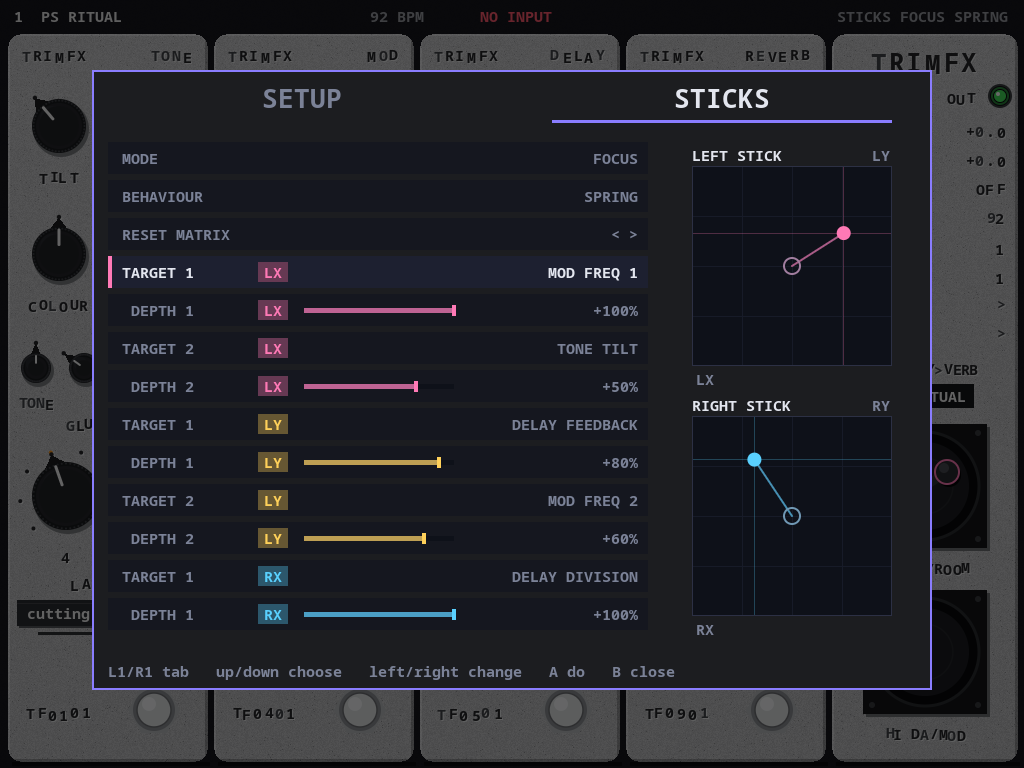
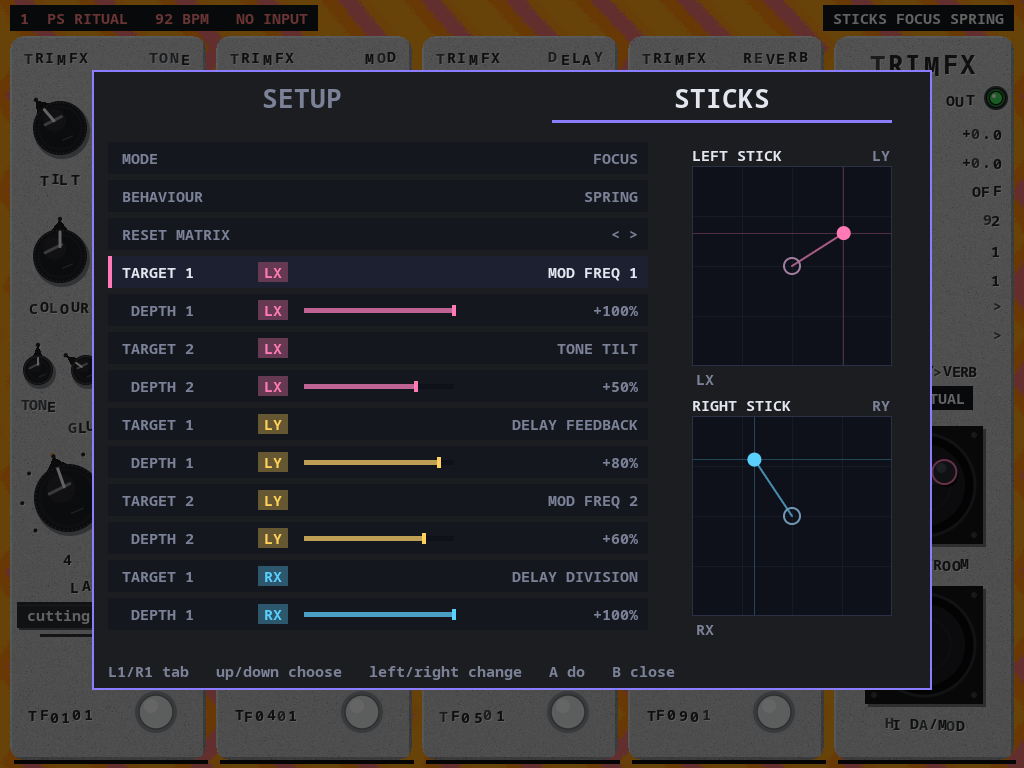
UI: glossy knobs, orange / pink backdrop behind the boxes
Claude-Session: https://claude.ai/code/session_012i4RnoiBPU59bPp5z44ANL

Changed region(s): [[0.0, 0.0, 1.0, 1.0], [0.0625, 0.6875, 0.0938, 0.7188], [0.0625, 0.5312, 0.0938, 0.5625]]

diff --git a/src/main.c b/src/main.c
@@ -791,12 +791,12 @@ static void xy_pad(int x, int y, int sz, float bx, float by, float lx, float ly,
 #define KNOB_A0 (0.75f * TFX_PI)   /* 7:30 */
 #define KNOB_SPAN (1.5f * TFX_PI)  /* to 4:30 */
 
-#define PED_W 200
-#define PED_Y 34
-#define PED_H 728
-#define PED_X(k) (8 + (k) * (PED_W + 6))
+#define PED_W 196
+#define PED_Y 36
+#define PED_H 724
+#define PED_X(k) (10 + (k) * (PED_W + 10))
 #define MST_X PED_X(4)
-#define MST_W (W - 6 - MST_X)
+#define MST_W (W - 10 - MST_X)
 
 static void knob_pt(float cx, float cy, float r, float v, float *x, float *y)
 {
@@ -819,9 +819,13 @@ static void make_bg(void)
     if (!bg) return;
     for (int y = 0; y < H; y++)
         for (int x = 0; x < W; x++) {
+            /* a melting orange / pink backdrop, after the photo the boxes sit on */
+            float zig = fabsf(fmodf(y * 0.021f + 40.f, 2.f) - 1.f) * 38.f;           /* zig-zag */
+            float t = (x + zig + 9.f * sinf(y * 0.013f + x * 0.004f)) * 0.012f;
             uint32_t h = hash32((uint32_t)(y * W + x) * 2654435761u);
-            int v = 0x15 + (int)(h & 3);
-            bg[y * W + x] = (uint32_t)(v << 16 | v << 8 | (v + 6));
+            t += ((h & 255) / 255.f - 0.5f) * 0.05f + (((h >> 8) % 7) == 0 ? 0.04f : 0.f); /* the smear */
+            float f = t - floorf(t);
+            bg[y * W + x] = f < 0.42f ? 0xffa516 : f < 0.62f ? 0xff8a0e : f < 0.86f ? 0xf27272 : 0xff9c14;
         }
     for (int k = 0; k < 5; k++) {
         int x0 = PED_X(k), w = k < 4 ? PED_W : MST_W, y0 = PED_Y, h = PED_H, rr = 12;
@@ -889,8 +893,11 @@ static void knob(int cx, int cy, int r, float stored, float lv, uint32_t axc, in
         gfx_disc(cx + (r - 1.5f) * cosf(t), cy + (r - 1.5f) * sinf(t), 1.f, 0x3c3e43);
     }
     gfx_disc(cx, cy, r - 4, 0x26272b);
-    gfx_disc(cx - r * 0.25f, cy - r * 0.3f, r * 0.45f, 0x2c2d32); /* the cap's sheen */
-    gfx_disc(cx, cy, r - 7, 0x232428);
+    gfx_disc(cx, cy, r - 7, 0x1e1f23);
+    /* the gloss: a soft sheen and a bright streak, as on a lacquered cap */
+    gfx_disc(cx - r * 0.2f, cy - r * 0.28f, r * 0.42f, 0x2b2c31);
+    gfx_line(cx - r * 0.55f, cy - r * 0.12f, cx + r * 0.05f, cy - r * 0.42f, r > 20 ? 3.f : 2.f, 0x8d9096);
+    gfx_line(cx + r * 0.1f, cy + r * 0.45f, cx + r * 0.45f, cy + r * 0.3f, 1.5f, 0x4a4c52);
     if (!used) return;
     float px = cx + (r - 3) * cosf(a), py = cy + (r - 3) * sinf(a);
     gfx_line(cx + r * 0.35f * cosf(a), cy + r * 0.35f * sinf(a), px, py, r > 20 ? 3.f : 2.f, 0xf4f4f4);
@@ -987,7 +994,7 @@ static void pedal(int x, int m)
     const ModState *ms = &base.m[m];
     int a = ms->algo, on = !ms->bypass, focused = col == m && !overlay, s = sel[m];
     int y = PED_Y;
-    if (focused) gfx_rect(x - 3, y - 3, PED_W + 6, PED_H + 6, 2, ACCENT);
+    if (focused) gfx_rect(x - 4, y - 4, PED_W + 8, PED_H + 8, 3, 0xffffff);
     char b[64], v[48];
 
     /* the maker and the box's name, stamped across the top */
@@ -1071,7 +1078,7 @@ static void pedal(int x, int m)
 static void master_strip(int x, int w)
 {
     int focused = col == COL_MASTER && !overlay, y = PED_Y;
-    if (focused) gfx_rect(x - 3, y - 3, w + 6, PED_H + 6, 2, ACCENT);
+    if (focused) gfx_rect(x - 4, y - 4, w + 8, PED_H + 8, 3, 0xffffff);
     stamp_c(x + w / 2, y + 10, "TRIMFX", 1, 2);
     stamp_c(x + w / 2, y + 52, "IN  FX  OUT", 0, 0);
     int ry0 = y + 86;
@@ -1123,14 +1130,14 @@ static void master_strip(int x, int w)
 static void draw_top(void)
 {
     char b[96];
-    snprintf(b, sizeof b, "%d  %s", preset_slot + 1, patch_name);
-    fit(b, 330);
-    gfx_text(14, 5, b, 0xe8e8e8, FONT_SMALL);
-    snprintf(b, sizeof b, "%.0f BPM", base.bpm);
-    gfx_text(370, 5, b, 0x9a9ca2, FONT_SMALL);
-    if (!in_dev) gfx_text(480, 5, "NO INPUT", C_BAD, FONT_SMALL);
+    snprintf(b, sizeof b, "%d  %s   %.0f BPM%s", preset_slot + 1, patch_name, base.bpm, in_dev ? "" : "   NO INPUT");
+    int w = gfx_text_w(b, FONT_SMALL) + 20;
+    gfx_fill(10, 5, w, 26, 0x14161a);
+    gfx_text(20, 7, b, in_dev ? 0xf2f2f2 : 0xff8080, FONT_SMALL);
     snprintf(b, sizeof b, "STICKS %s %s%s", stick_matrix ? "MATRIX" : "FOCUS", stick_latch ? "LATCH" : "SPRING", hold_on ? " HELD" : "");
-    text_r(W - 16, 5, b, hold_on ? ACCENT : 0x9a9ca2, FONT_SMALL);
+    w = gfx_text_w(b, FONT_SMALL) + 20;
+    gfx_fill(W - 10 - w, 5, w, 26, 0x14161a);
+    text_r(W - 20, 7, b, hold_on ? ACCENT : 0xf2f2f2, FONT_SMALL);
 }
 
 static void row_box(int x, int y, int w, int here, const char *label, const char *val, uint32_t c, const char *axn, uint32_t axc, float bar)
